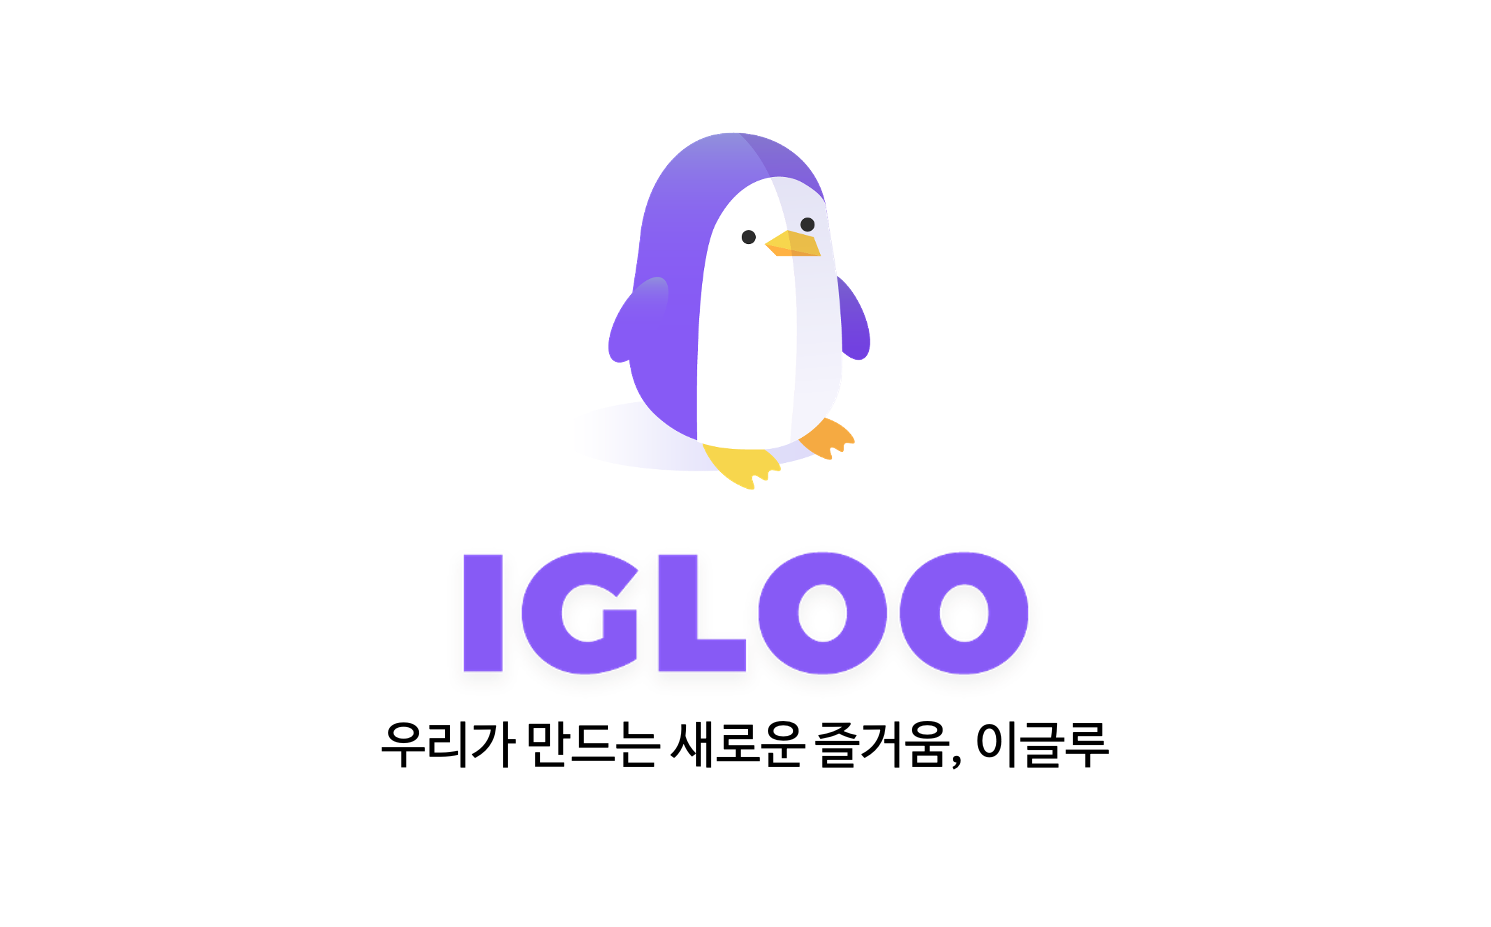
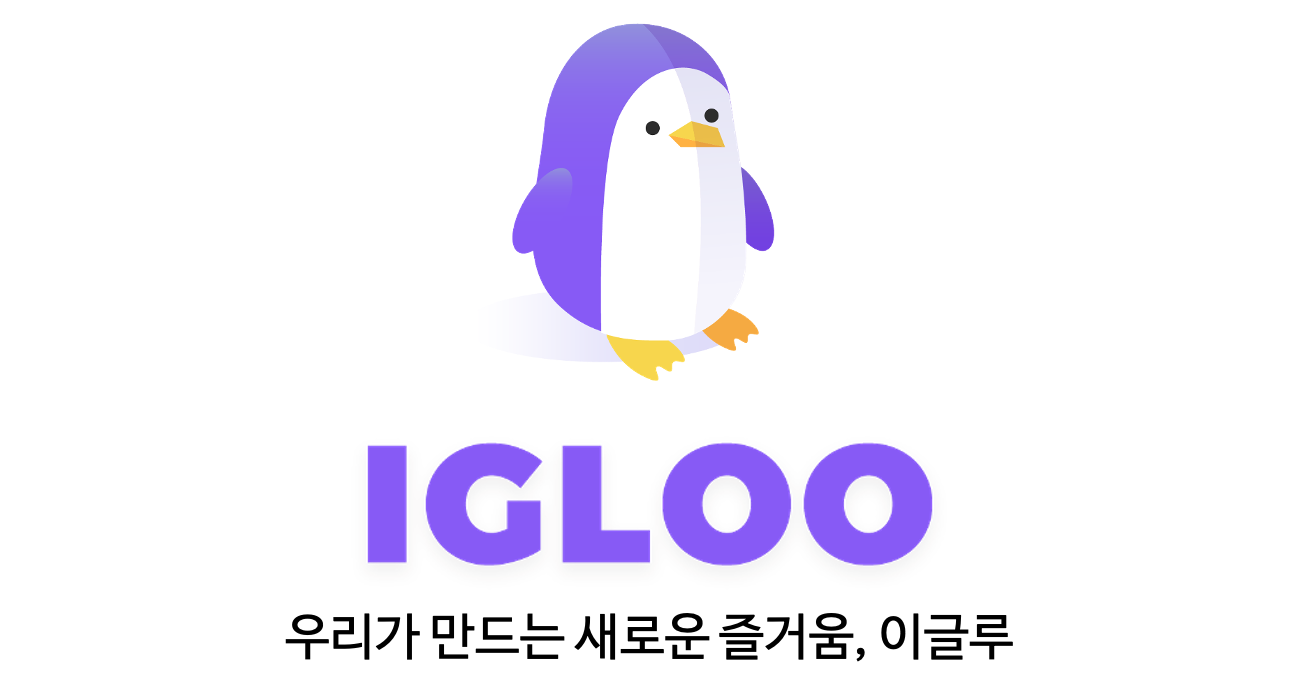
image changed

Changed region(s): [[0.2462, 0.57, 0.7385, 0.84], [0.3692, 0.03, 0.6154, 0.54], [0.2154, 0.87, 0.8, 0.96]]

diff --git a/index.html b/index.html
@@ -6,7 +6,9 @@
 -->
 <html>
 	<head>
-		<title>IGLOO | 우리가 만드는 새로운 즐거움, 이글루</title>
+		<title>IGLOO 이글루</title>
+		<meta property="og:description" content="우리가 만드는 새로운 즐거움, 이글루">
+		<meta property="og:image" content="https://raw.githubusercontent.com/DaeHyeonNam/Igloo/main/images/igloo_combi.png">
 		<meta charset="utf-8" />
 		<meta name="viewport" content="width=device-width, initial-scale=1, user-scalable=no" />
 		<link rel="stylesheet" href="assets/css/main.css" />
